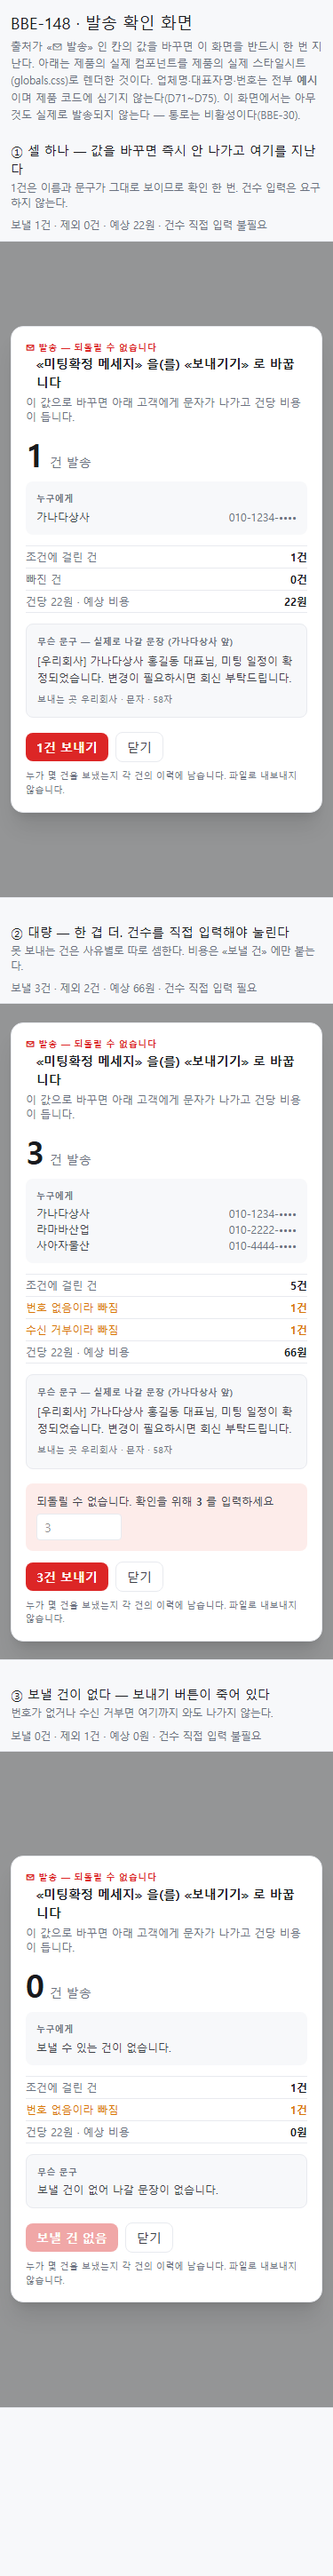
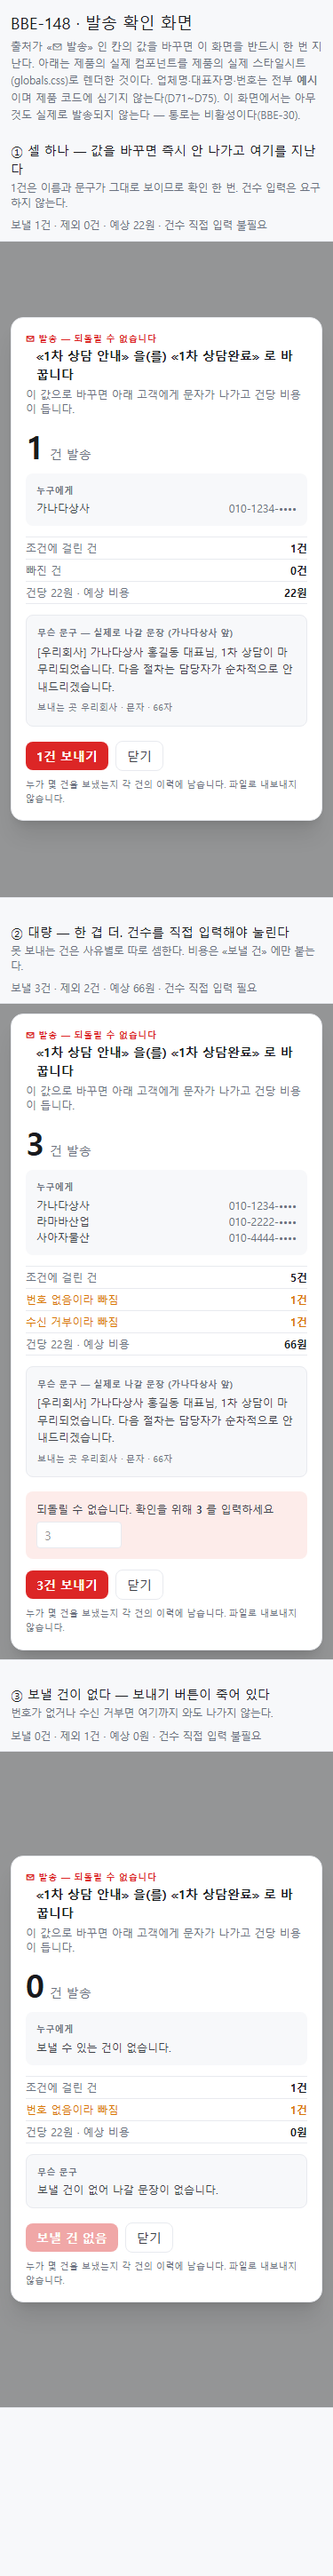
fix(BBE-148): catalog key 를 default-tabs 기준으로 정정 (DC-03 제보)
발단: catalog.ts 가 발송 컬럼을 @/lib/structure-packs(먼데이 실측 id,
예: color_mm3acc4d·color8)로 등록해 뒀는데, A′ 판정 이후 실제 워크스페이스
정본은 @/lib/default-tabs(BBE-145, 목업 v6 을 그대로 옮긴 것)다 — 키
체계가 전혀 다르다. resolveSendColumn 의 source==="msg" 안전망 덕에
자금 리스크는 없었지만(모르는 칸은 발송으로 본다), 실제 발송 칸에서
값별 템플릿 정밀도가 전부 fallback 으로 떨어지는 상태였다.

BBE-145(PR #170, 미병합)의 실제 소스를 원격에서 직접 읽어 확인. 신규리드
탭의 발송 칸 3개는 absence_notice·consult1_notice·confirm2_notice —
컬럼 정의에 readOnly:true + pendingReason 이 이미 박혀 있다(DC-03 이 이
카드를 기다리며 잠가 둔 것). pendingReason 은 아직 어느 컴포넌트도 안
읽는다 — 셀이 완전히 잠겨 있어 planSend 가 호출되는 경로 자체가 없다.

catalog.ts 를 새 3키로 교체. 리드컨택 「미팅확정 메세지」는 default-tabs
에 아직 없어(BBE-149 대기) source==="msg" 안전망에 맡긴다. 「3차 불가」는
default-tabs 에 대응 컬럼이 없어 드롭(A′ 기준 이관 매핑 사전에만 남는다).

catalog.test.ts 의 구조 팩 대조 테스트를 default-tabs 대조로 교체 —
아직 브랜치가 미병합이라 원격에서 읽은 값을 하드코딩했고, #170 머지 후
살아있는 import 대조로 승격해야 한다고 주석에 남겼다.

confirm/history/plan/SendConfirmDialog 테스트와 preview 하네스가 전부
color8 픽스처를 썼다(카탈로그에서 빠지며 깨짐) → consult1_notice 로 교체.

check.sh PASS, qa-app 175 변동 없음(send-guard 만 손댐), 화면 증거 재촬영.
인터페이스(planSend/confirmSend/SendConfirmDialog 시그니처) 무변경.

diff --git a/app/src/lib/send-guard/catalog.ts b/app/src/lib/send-guard/catalog.ts
@@ -1,21 +1,38 @@
 /**
  * 발송 컬럼 카탈로그 — 어떤 칸이 «✉ 발송» 인가 (BBE-148).
  *
- * ## 왜 «컬럼 4개» 를 그냥 하드코딩하지 않는가
+ * ## 2026-08-12 A′ 판정 이후 키가 바뀐 이유 — DC-03 제보
  *
- * 목업 정본의 발송 칸은 4개다. 그런데 **앱 구조 팩(먼데이 실측)에는 6개**다 —
- * 목업이 «부재 메세지»·«악성부재 메세지전달» 을 «부재 안내» 하나로 합치고
- * «AI_3차불가» 를 뺐기 때문이다(qa-app.mjs 가 세는 차이의 일부).
+ * 처음 이 카탈로그는 구(舊) 먼데이 실측 컬럼 id(`color_mm3acc4d`·`color3`·`color`·
+ * `dup__of_ai___` 등)로 등록돼 있었다. **A′ 판정(목업 v6 = 제품 기본 구조 · 먼데이
+ * 실측 복제분 = 이관 매핑 사전으로만 보존)** 이후, 실제 워크스페이스가 쓰는 것은
+ * `@/lib/default-tabs`(BBE-145·D76)의 키다 — 목업을 그대로 옮긴 새 정본이고, 먼데이
+ * 실측 id 와는 이름 체계가 전혀 다르다. 옛 키로 등록해 두면 실제 셀 값이 카탈로그에
+ * 하나도 안 걸려 `resolveSendColumn` 이 매번 «모르는 칸» 경로(안전하지만 값별 템플릿
+ * 정밀도가 없는 fallback)로 빠진다 — 틀린 방향은 아니지만 이 카탈로그가 원래 하려던
+ * «값별 템플릿을 정확히 안다» 는 일을 못 한다. 그래서 default-tabs 의 실제 키로 다시 맞춘다.
  *
- * 목업 4개만 등록하면 **지금 앱에 실제로 서 있는 발송 칸 2개가 무방비로 남는다.**
- * 그래서 카탈로그는 6개를 모두 담고, 그 위에 **모르는 칸은 발송으로 본다**는
- * 안전 우선 판정을 얹는다. 발송 칸을 일반 칸으로 잘못 보면 돈이 나가고 되돌릴 수 없지만,
- * 일반 칸을 발송 칸으로 잘못 보면 확인 창이 한 번 더 뜰 뿐이다. 틀리는 방향을 고른다.
+ * 옛 먼데이 실측 id 는 지우지 않는다 — `@/lib/structure-packs` 자체가 그 이관 매핑
+ * 사전이고 이미 보존돼 있다(A′). 이 카탈로그가 그걸 다시 들고 있을 필요는 없다.
+ *
+ * ## 아직 등록하지 않은 것 — 리드컨택 «미팅확정 메세지»
+ *
+ * `default-tabs` 에는 아직 신규리드 탭(`new-lead.ts`, BBE-145)만 있다. 리드컨택 탭은
+ * BBE-149(DC-04) 가 만든다 — 그 탭이 서면 실제 키를 확인해 여기 추가한다. 그때까지는
+ * `isSendColumn`/`resolveSendColumn` 의 «출처가 msg 면 발송으로 본다» 규칙이 안전망이다
+ * (아래 판정 함수 설명 참고) — 안 등록됐다고 무방비는 아니다, 값별 템플릿 정밀도만 없다.
+ *
+ * ## 왜 «값 그대로 하드코딩» 이 아니라 카탈로그인가
+ *
+ * 회사가 새 발송 칸을 직접 만들 수도 있다(D09 출처=msg). 카탈로그는 «값별 템플릿을
+ * 미리 아는 칸» 의 목록일 뿐이고, 모르는 칸은 **안전 우선 판정**(모르면 발송으로 본다)
+ * 으로 걸러진다. 발송 칸을 일반 칸으로 잘못 보면 돈이 나가고 되돌릴 수 없지만, 일반 칸을
+ * 발송 칸으로 잘못 보면 확인 창이 한 번 더 뜰 뿐이다 — 틀리는 방향을 고른다.
  */
 
 import type { SendChannel, SendColumnSpec } from "./types";
 
-/** 목업·먼데이가 발송 칸 앞에 붙이는 표식. 라벨만 보고도 걸러낸다. */
+/** default-tabs·회사 자체 제작 칸이 발송 칸 앞에 붙이는 표식. 라벨만 보고도 걸러낸다. */
 const SEND_LABEL_MARKS = ["📬", "✉"] as const;
 
 /** 「아직 안 보냄」을 뜻하는 값 — 어느 칸에서든 이 값이면 나가지 않는다. */
@@ -24,45 +41,35 @@ const UNIVERSAL_IDLE_VALUES = ["", "—", "보내기 전", "심사 전", "여부
 const SMS: SendChannel = "sms";
 
 /**
- * 알려진 발송 컬럼. key 는 `board_columns.key`(먼데이 컬럼 id 를 그대로 승계한 값)다.
- * 라벨은 회사가 바꿀 수 있으므로 식별에 쓰지 않는다.
+ * 알려진 발송 컬럼. key 는 `board_columns.key` = `@/lib/default-tabs` 가 설치 시 그대로
+ * 심는 값이다(「절대 바뀌면 안 된다」— `default-tabs/types.ts` 계약). 라벨은 회사가
+ * 바꿀 수 있으므로 식별에 쓰지 않는다.
  *
  * 템플릿 코드는 `@/lib/messaging/triggers` 의 기본 코드와 같은 문자열을 쓴다 —
  * 두 곳이 어긋나면 `catalog.test.ts` 가 실패한다.
  */
 const SPECS: readonly SendColumnSpec[] = [
-  // ── 신규리드 관리 ──
+  // ── 신규리드 관리 (`default-tabs/new-lead.ts`, BBE-145) ──
   {
-    // 목업 «부재 안내» 의 앞쪽 절반. 값마다 다른 템플릿이 나간다.
-    columnKey: "color_mm3acc4d",
+    // 목업·default-tabs 모두 단일 컬럼이다(구 실측은 이걸 2컬럼으로 쪼개 놓았었다 —
+    // BBE-145 module 주석이 정정 근거를 남겼다). idle 값은 없다 — 이 칸은 미입력(null)
+    // 이 «안 보냄» 이고, 목록에 있는 값 6개는 전부 실제 발송 값이다.
+    columnKey: "absence_notice",
     mockupLabel: "부재 안내",
     idleValues: UNIVERSAL_IDLE_VALUES,
     templateByValue: {
-      "1번 부재": "absence-simple-1",
-      "2번 부재": "absence-simple-2",
-      "3번 부재": "absence-simple-3",
-      "4번 부재": "absence-simple-4",
       "간편 부재 1회": "absence-simple-1",
       "간편 부재 2회": "absence-simple-2",
       "간편 부재 3회": "absence-simple-3",
       "간편 부재 4회": "absence-simple-4",
       "간편 부재 5회": "absence-simple-5",
-      // 「1일 1회 전화」는 사내 처리 지침이지 고객에게 나가는 문구가 아니다 → 미발송.
+      "악성 부재": "absence-malicious",
     },
     fallbackTemplateCode: "absence-simple-1",
     channel: SMS,
   },
   {
-    // 목업 «부재 안내» 의 뒤쪽 절반(악성 부재).
-    columnKey: "color3",
-    mockupLabel: "부재 안내(악성)",
-    idleValues: UNIVERSAL_IDLE_VALUES,
-    templateByValue: { "부재 메세지 전달": "absence-malicious", "악성 부재": "absence-malicious" },
-    fallbackTemplateCode: "absence-malicious",
-    channel: SMS,
-  },
-  {
-    columnKey: "color",
+    columnKey: "consult1_notice",
     mockupLabel: "1차 상담 안내",
     idleValues: UNIVERSAL_IDLE_VALUES,
     templateByValue: { "1차 상담완료": "consultation-first" },
@@ -70,33 +77,15 @@ const SPECS: readonly SendColumnSpec[] = [
     channel: SMS,
   },
   {
-    columnKey: "dup__of_ai___",
+    columnKey: "confirm2_notice",
     mockupLabel: "2차 확정 안내",
     idleValues: UNIVERSAL_IDLE_VALUES,
     templateByValue: { 심사확정: "consultation-confirmed" },
     fallbackTemplateCode: "consultation-confirmed",
     channel: SMS,
   },
-  {
-    // 목업에는 없고 앱 팩에만 있는 칸. 등록하지 않으면 무방비로 남는다.
-    columnKey: "dup__of_ai_2___",
-    mockupLabel: "3차 불가 안내",
-    idleValues: UNIVERSAL_IDLE_VALUES,
-    templateByValue: { 심사거절: "consultation-rejected" },
-    fallbackTemplateCode: "consultation-rejected",
-    channel: SMS,
-  },
-  // ── 리드컨택 관리 ──
-  {
-    columnKey: "color8",
-    mockupLabel: "미팅확정 메세지",
-    // 「미팅 미지정」이 이 칸의 «보내기 전» 이다. 목업 setCell 은 이 값을 빠뜨려
-    // 미지정으로 되돌려도 발송으로 판정한다 — 여기서 고친다.
-    idleValues: [...UNIVERSAL_IDLE_VALUES, "미팅 미지정"],
-    templateByValue: { 보내기기: "meeting-confirmed", 보내기: "meeting-confirmed" },
-    fallbackTemplateCode: "meeting-confirmed",
-    channel: SMS,
-  },
+  // ── 리드컨택 관리 — 아직 default-tabs 에 없다. BBE-149 가 세우면 실제 키로 추가한다.
+  //    그 전까지는 위 파일 주석의 안전망(출처=msg 판정)이 이 칸을 대신 잡는다.
 ];
 
 const BY_KEY: ReadonlyMap<string, SendColumnSpec> = new Map(SPECS.map((s) => [s.columnKey, s]));
@@ -116,8 +105,9 @@ export function labelLooksLikeSendColumn(label: string): boolean {
  *
  * ① 카탈로그 등록  ② 출처 메타가 `msg`  ③ 라벨에 📬·✉ 가 붙어 있음
  *
- * ②는 `board_columns.source` 다(BBE-123). 회사가 새로 만든 발송 칸은 카탈로그에 없으므로
- * 이 축이 실질적인 주 판정이 된다. 카탈로그는 «값별 템플릿» 을 아는 칸의 목록이다.
+ * ②는 `board_columns.source` 다(BBE-123·D09, `default-tabs` 가 설치 시 그대로 심는다).
+ * 카탈로그에 아직 없는 칸(리드컨택 미팅확정 메세지 등)은 이 축이 실질적인 주 판정이 된다.
+ * 카탈로그는 «값별 템플릿» 을 아는 칸의 목록일 뿐, 발송 칸 여부의 유일한 판정자가 아니다.
  */
 export function isSendColumn(column: {
   key: string;
@@ -157,8 +147,8 @@ export function valueTriggersSend(spec: SendColumnSpec, value: string | null): b
   const trimmed = value.trim();
   if (trimmed === "") return false;
   if (spec.idleValues.includes(trimmed)) return false;
-  // 값별 템플릿 표가 있으면 «표에 없는 값» 은 발송하지 않는다.
-  // 「1일 1회 전화」처럼 사내 지침용 선택지가 섞여 있기 때문이다.
+  // 값별 템플릿 표가 있으면 «표에 없는 값» 은 발송하지 않는다 — 알려진 칸인데 목록에 없는
+  // 값이 온 경우까지 안전 우선으로 걸러야 하기 때문이다.
   if (spec.templateByValue) return trimmed in spec.templateByValue;
   return true;
 }

diff --git a/app/src/lib/send-guard/catalog.test.ts b/app/src/lib/send-guard/catalog.test.ts
@@ -1,12 +1,12 @@
 /**
  * BBE-148 — 발송 칸 판정. 여기서 틀리면 돈이 나가거나 안 나간다.
  *
- * 가장 중요한 것은 마지막 케이스다: **구조 팩에 실제로 심긴 발송 칸이 하나라도
- * 카탈로그 밖에 있으면 실패한다.** 목업 4칸만 보고 만들면 앱에 서 있는 2칸이 무방비가 된다.
+ * 2026-08-12 A′ 판정 이후 정본이 `@/lib/structure-packs`(먼데이 실측 — 이관 매핑 사전으로만
+ * 보존)에서 `@/lib/default-tabs`(BBE-145 · 목업 v6 를 그대로 옮긴 제품 기본 구조)로 바뀌었다.
+ * 이 파일도 그에 맞춰 검증 대상을 바꿨다 — 더는 구조 팩 발송 칸을 세지 않는다.
  */
 import { describe, expect, it } from "vitest";
 import { DEFAULT_MESSAGE_TEMPLATE_CODES } from "@/lib/messaging";
-import { SEOUL_STRUCTURE_PACK } from "@/lib/structure-packs/seoul-pack";
 import {
   isSendColumn,
   labelLooksLikeSendColumn,
@@ -17,15 +17,18 @@ import {
 } from "./catalog";
 import { DEFAULT_TEMPLATE_BODIES } from "./template";
 
-const meetingSpec = sendColumnSpecs().find((s) => s.columnKey === "color8")!;
+const absenceSpec = sendColumnSpecs().find((s) => s.columnKey === "absence_notice")!;
 
 describe("발송 칸 판정", () => {
   it("카탈로그에 등록된 칸은 발송 칸이다", () => {
-    expect(isSendColumn({ key: "color8" })).toBe(true);
-    expect(isSendColumn({ key: "dup__of_ai___" })).toBe(true);
+    expect(isSendColumn({ key: "absence_notice" })).toBe(true);
+    expect(isSendColumn({ key: "consult1_notice" })).toBe(true);
+    expect(isSendColumn({ key: "confirm2_notice" })).toBe(true);
   });
 
-  it("출처 메타가 msg 면 카탈로그에 없어도 발송 칸이다", () => {
+  it("출처 메타가 msg 면 카탈로그에 없어도 발송 칸이다 — 리드컨택 «미팅확정 메세지» 가 이 경로다", () => {
+    // BBE-149(리드컨택 탭)가 아직 안 서서 실제 키를 모른다. 그때까지는 이 안전망이 잡는다.
+    expect(isSendColumn({ key: "meeting_confirm_notice", source: "msg" })).toBe(true);
     expect(isSendColumn({ key: "회사가_새로_만든_칸", source: "msg" })).toBe(true);
   });
 
@@ -51,25 +54,22 @@ describe("발송 칸 판정", () => {
 
 describe("어떤 값이 문자를 내보내는가", () => {
   it("null·빈 값·«보내기 전» 류는 나가지 않는다", () => {
-    expect(valueTriggersSend(meetingSpec, null)).toBe(false);
-    expect(valueTriggersSend(meetingSpec, "")).toBe(false);
-    expect(valueTriggersSend(meetingSpec, "   ")).toBe(false);
-    expect(valueTriggersSend(meetingSpec, "보내기 전")).toBe(false);
-  });
-
-  it("«미팅 미지정» 은 나가지 않는다 — 목업 setCell 이 빠뜨린 값이다", () => {
-    // 목업은 `val!=="보내기 전" && val!=="심사 전"` 만 보므로 미지정으로 되돌려도
-    // 발송으로 판정한다. 카탈로그가 이 칸의 idle 값을 따로 갖는 이유다.
-    expect(valueTriggersSend(meetingSpec, "미팅 미지정")).toBe(false);
-    expect(valueTriggersSend(meetingSpec, "보내기기")).toBe(true);
+    const spec = sendColumnSpecs().find((s) => s.columnKey === "consult1_notice")!;
+    expect(valueTriggersSend(spec, null)).toBe(false);
+    expect(valueTriggersSend(spec, "")).toBe(false);
+    expect(valueTriggersSend(spec, "   ")).toBe(false);
+    expect(valueTriggersSend(spec, "보내기 전")).toBe(false);
+    expect(valueTriggersSend(spec, "1차 상담완료")).toBe(true);
   });
 
   it("값별 템플릿 표가 있으면 표에 없는 값은 나가지 않는다", () => {
-    const absence = sendColumnSpecs().find((s) => s.columnKey === "color_mm3acc4d")!;
-    // 「1일 1회 전화」는 사내 처리 지침이지 고객에게 나가는 문구가 아니다.
-    expect(valueTriggersSend(absence, "1일 1회 전화")).toBe(false);
-    expect(valueTriggersSend(absence, "2번 부재")).toBe(true);
-    expect(templateCodeForValue(absence, "2번 부재")).toBe("absence-simple-2");
+    // absence_notice(부재 안내)는 default-tabs 에서 6개 값 전부가 실발송 값이다 —
+    // 「미입력(null)」이 유일한 idle 상태다(BBE-145 module 주석 근거).
+    expect(valueTriggersSend(absenceSpec, "간편 부재 3회")).toBe(true);
+    expect(valueTriggersSend(absenceSpec, "악성 부재")).toBe(true);
+    expect(valueTriggersSend(absenceSpec, "표에 없는 값")).toBe(false);
+    expect(templateCodeForValue(absenceSpec, "간편 부재 3회")).toBe("absence-simple-3");
+    expect(templateCodeForValue(absenceSpec, "악성 부재")).toBe("absence-malicious");
   });
 });
 
@@ -82,10 +82,8 @@ describe("카탈로그와 다른 정의의 대조", () => {
         s.fallbackTemplateCode,
       ]),
     );
-    // 겹치는 코드는 문자열이 같아야 한다. 새로 생긴 코드(consultation-rejected)는
-    // messaging 쪽에 아직 없으므로 «겹치는 것만» 본다.
     for (const code of used) {
-      if (code.startsWith("consultation-rejected") || code.startsWith("custom:")) continue;
+      if (code.startsWith("custom:")) continue;
       expect(known.has(code), `messaging 에 없는 코드: ${code}`).toBe(true);
     }
   });
@@ -99,17 +97,19 @@ describe("카탈로그와 다른 정의의 대조", () => {
     }
   });
 
-  it("★ 구조 팩에 심긴 발송 칸이 카탈로그 밖에 있으면 안 된다", () => {
-    const packSendColumns = SEOUL_STRUCTURE_PACK.boards.flatMap((board) =>
-      board.columns
-        .filter((column) => labelLooksLikeSendColumn(column.label))
-        .map((column) => ({ board: board.slug, key: column.key, label: column.label })),
-    );
-    // 목업은 4칸이라고 세지만 앱 팩에는 6칸이 심겨 있다. 그 차이가 이 테스트의 존재 이유다.
-    expect(packSendColumns.length).toBeGreaterThanOrEqual(4);
-
+  /**
+   * ★ default-tabs 신규리드 탭의 발송 칸 3개(BBE-145)가 카탈로그에 전부 있는가.
+   *
+   * BBE-145(PR #170)가 아직 미병합이라 `@/lib/default-tabs/new-lead`를 여기서 import 할
+   * 수 없다 — 파일이 이 브랜치 트리에 없다. 그래서 지금은 실제 소스(origin/
+   * claude/bbe-145-new-lead-tab, 2026-08-12 확인)에서 직접 읽은 key·값을 하드코딩해
+   * 대조한다. **#170 이 머지되면 이 테스트를 `default-tabs/new-lead`를 직접 import 하는
+   * 살아있는 대조로 승격해야 한다** — 지금의 하드코딩은 그 전까지의 임시 다리다.
+   */
+  it("★ default-tabs 신규리드 탭 발송 칸 3개가 카탈로그에 전부 있다 (BBE-145 대조)", () => {
+    const NEW_LEAD_SEND_KEYS = ["absence_notice", "consult1_notice", "confirm2_notice"];
     const registered = new Set(sendColumnSpecs().map((s) => s.columnKey));
-    const missing = packSendColumns.filter((c) => !registered.has(c.key));
+    const missing = NEW_LEAD_SEND_KEYS.filter((key) => !registered.has(key));
     expect(missing, `카탈로그에 없는 발송 칸: ${JSON.stringify(missing)}`).toEqual([]);
   });
 });

diff --git a/app/src/lib/send-guard/plan.test.ts b/app/src/lib/send-guard/plan.test.ts
@@ -20,8 +20,8 @@ function input(over: Partial<SendPlanInput> = {}): SendPlanInput {
   return {
     orgId: "org-1",
     boardId: "board-1",
-    column: { key: "color8", label: "미팅확정 메세지" },
-    value: "보내기기",
+    column: { key: "consult1_notice", label: "1차 상담 안내" },
+    value: "1차 상담완료",
     targets: [target()],
     senderName: "우리회사",
     ...over,
@@ -34,7 +34,7 @@ describe("발송 계획을 세우는 조건", () => {
   });
 
   it("발송을 일으키지 않는 값이면 계획이 없다", () => {
-    expect(planSend(input({ value: "미팅 미지정" }))).toBeNull();
+    expect(planSend(input({ value: "보내기 전" }))).toBeNull();
     expect(planSend(input({ value: null }))).toBeNull();
   });
 });
@@ -44,8 +44,8 @@ describe("누구에게 — 못 보내는 건을 따로 셈한다", () => {
     const sentKey = messageIdempotencyKey({
       orgId: "org-1",
       entityId: "item-5",
-      columnKey: "color8",
-      value: "보내기기",
+      columnKey: "consult1_notice",
+      value: "1차 상담완료",
     });
     const plan = planSend(
       input({
@@ -140,7 +140,7 @@ describe("건수 직접 입력 · 계획 지문", () => {
     expect(planSend(input({ targets: [target({ itemId: "other" })] }))!.fingerprint).not.toBe(base);
     expect(planSend(input({ unitCostKrw: 30 }))!.fingerprint).not.toBe(base);
     expect(
-      planSend(input({ column: { key: "color", label: "1차 상담 안내" }, value: "1차 상담완료" }))!
+      planSend(input({ column: { key: "confirm2_notice", label: "2차 확정 안내" }, value: "심사확정" }))!
         .fingerprint,
     ).not.toBe(base);
   });

diff --git a/app/src/components/send-guard/SendConfirmDialog.test.tsx b/app/src/components/send-guard/SendConfirmDialog.test.tsx
@@ -17,8 +17,8 @@ function makePlan(targets: SendTarget[]): SendPlan {
   return planSend({
     orgId: "org-1",
     boardId: "board-1",
-    column: { key: "color8", label: "미팅확정 메세지" },
-    value: "보내기기",
+    column: { key: "consult1_notice", label: "1차 상담 안내" },
+    value: "1차 상담완료",
     targets,
     senderName: "우리회사",
   })!;
@@ -50,8 +50,8 @@ describe("확인 화면이 반드시 보여 주는 것", () => {
 
   it("무엇이 바뀌는지 · 되돌릴 수 없다는 사실", () => {
     expect(html).toContain("되돌릴 수 없습니다");
-    expect(html).toContain("«미팅확정 메세지»");
-    expect(html).toContain("«보내기기»");
+    expect(html).toContain("«1차 상담 안내»");
+    expect(html).toContain("«1차 상담완료»");
   });
 
   it("누구에게 — 이름과 가린 번호", () => {

diff --git a/app/src/lib/send-guard/history.test.ts b/app/src/lib/send-guard/history.test.ts
@@ -39,8 +39,8 @@ function makePlan(targets: SendTarget[]): SendPlan {
   return planSend({
     orgId: "org-1",
     boardId: "board-1",
-    column: { key: "color8", label: "미팅확정 메세지" },
-    value: "보내기기",
+    column: { key: "consult1_notice", label: "1차 상담 안내" },
+    value: "1차 상담완료",
     targets,
     senderName: "우리회사",
   })!;
@@ -59,7 +59,7 @@ describe("이력 항목", () => {
     expect(entry.event).toBe("확인 요청");
     expect(entry.occurredAt).toBe(AT);
     expect(entry.actorName).toBe("담당자");
-    expect(entry.summary).toContain("«미팅확정 메세지»");
+    expect(entry.summary).toContain("«1차 상담 안내»");
     expect(entry.summary).toContain("보낼 1건");
     expect(entry.summary).toContain("22원");
   });

diff --git a/app/src/lib/send-guard/types.ts b/app/src/lib/send-guard/types.ts
@@ -25,7 +25,7 @@ export type SendChannel = "sms" | "alimtalk";
 export interface SendColumnSpec {
   /** `board_columns.key`. 라벨은 회사가 바꿀 수 있으므로 key 로 식별한다. */
   columnKey: string;
-  /** 목업 정본의 컬럼 이름. 앱 구조 팩의 라벨과 다를 수 있어 둘 다 남긴다. */
+  /** 목업 정본의 컬럼 이름. 실제 설치된 탭에서 회사가 라벨을 바꿀 수 있어 둘 다 남긴다. */
   mockupLabel: string;
   /** 이 값이면 문자가 나가지 않는다(«보내기 전» 류). 빈 값·null 은 항상 미발송이다. */
   idleValues: readonly string[];
